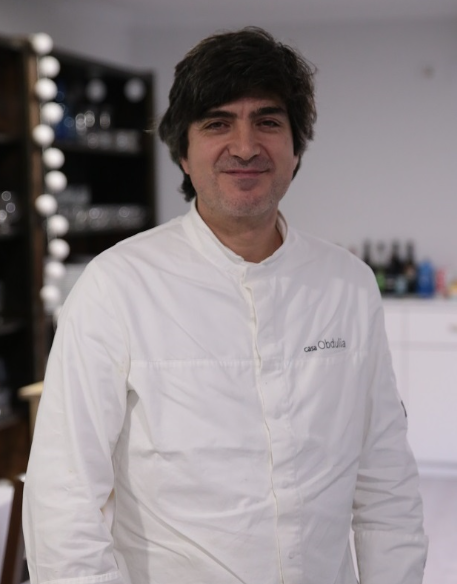
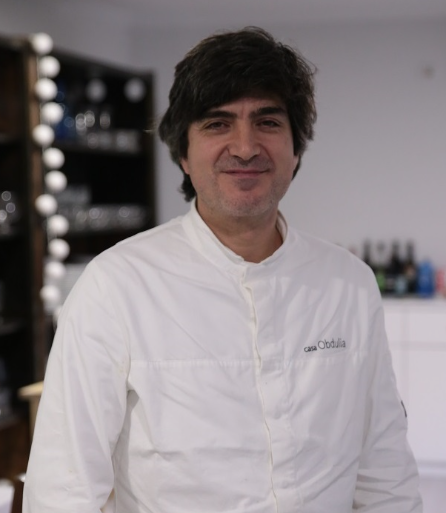
retoquitos

diff --git a/css/style.css b/css/style.css
@@ -230,19 +230,9 @@ h5 {
 }
 
 .textinfo {
-    /* background: rgba(242, 246, 248, 1);
-    background: -moz-linear-gradient(top, rgba(242, 246, 248, 1) 0%, rgba(242, 246, 248, 1) 5%, rgba(216, 225, 231, 1) 42%, rgba(181, 198, 208, 1) 73%, rgba(224, 239, 249, 1) 100%);
-    background: -webkit-gradient(left top, left bottom, color-stop(0%, rgba(242, 246, 248, 1)), color-stop(5%, rgba(242, 246, 248, 1)), color-stop(42%, rgba(216, 225, 231, 1)), color-stop(73%, rgba(181, 198, 208, 1)), color-stop(100%, rgba(224, 239, 249, 1)));
-    background: -webkit-linear-gradient(top, rgba(242, 246, 248, 1) 0%, rgba(242, 246, 248, 1) 5%, rgba(216, 225, 231, 1) 42%, rgba(181, 198, 208, 1) 73%, rgba(224, 239, 249, 1) 100%);
-    background: -o-linear-gradient(top, rgba(242, 246, 248, 1) 0%, rgba(242, 246, 248, 1) 5%, rgba(216, 225, 231, 1) 42%, rgba(181, 198, 208, 1) 73%, rgba(224, 239, 249, 1) 100%);
-    background: -ms-linear-gradient(top, rgba(242, 246, 248, 1) 0%, rgba(242, 246, 248, 1) 5%, rgba(216, 225, 231, 1) 42%, rgba(181, 198, 208, 1) 73%, rgba(224, 239, 249, 1) 100%);
-    background: linear-gradient(to bottom, rgba(242, 246, 248, 1) 0%, rgba(242, 246, 248, 1) 5%, rgba(216, 225, 231, 1) 42%, rgba(181, 198, 208, 1) 73%, rgba(224, 239, 249, 1) 100%);
-    filter: progid:DXImageTransform.Microsoft.gradient(startColorstr='#f2f6f8', endColorstr='#e0eff9', GradientType=0); */
-
     width: 480px;
     border-radius: 20px;
     font-size: 22px;
-    /* font-family: var(--FuentePrincipal); */
     font-weight: 500;
     color: rgb(0, 0, 0);
     background-color: rgb(245, 245, 245);

diff --git a/Historia.html b/Historia.html
@@ -16,7 +16,7 @@
 <body>
 
     <!-- BOTONES DEL NAVBAR -->
-    <nav class="contenedorancho navbar">
+    <nav class="contenedor navbar">
         <div><a href="Index.html"><b>Inicio</b></a>
             <a href="#"><b>Historia</b></a>
         </div>
@@ -114,7 +114,7 @@
 
         <div>
             <p>
-                A finales de 2022, fuimos incluidos en las paginas de la "Guia de Restaurantes Michelin de España y Portugal".
+                A finales de 2022, fuimos incluidos entre los "Restaurantes recomendados por la Guia Michelin: España y Portugal".
             </p>
         </div>
 
